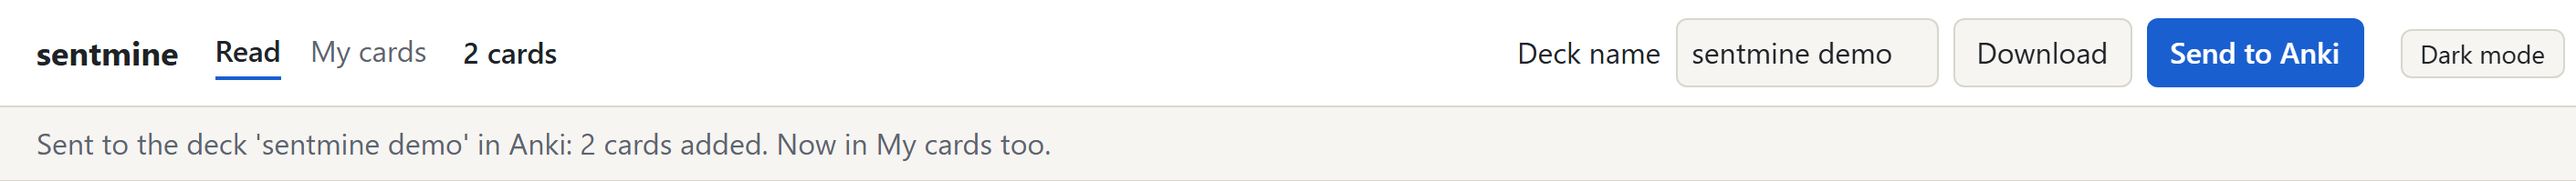
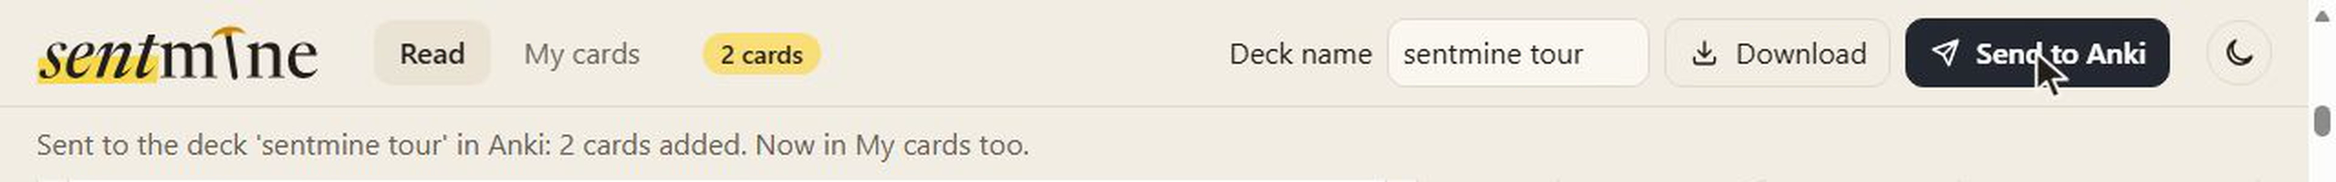
Promo layout: pictures and text side by side from the top; clean step 3 crop; step 4 in the new look

diff --git a/docs/index.html b/docs/index.html
@@ -143,7 +143,7 @@
   @keyframes settle { from { background: var(--picked-soft); } to { background: transparent; } }
   .back-again { margin-top: 12px; font-size: 0.9rem; }
 
-  .comes-back { display: grid; grid-template-columns: minmax(0, 1.25fr) minmax(0, 1fr); gap: 40px; align-items: center; }
+  .comes-back { display: grid; grid-template-columns: fit-content(62%) minmax(0, 1fr); gap: 48px; align-items: start; }   /* the picture as wide as it is; the text beside its top */
   .comes-back ul { padding-left: 1.2em; margin: 0; }
   .comes-back li { margin-bottom: 10px; }
 
@@ -280,12 +280,12 @@
         <article class="step" data-step="3">
           <h3>Drag over a term</h3>
           <p>Drag over <i>Simpson’s reversal</i>: the card comes at once, with the sentence that explains it; in <b>Edit</b>, a click on the next sentence puts it in too. The term is inside its own definition, so <b>Make it cloze</b> hides it.</p>
-          <div class="shot"><a href="img/3-cloze-card.png" title="Open the full screenshot"><img src="img/step-3-cloze.png" width="1217" height="443" loading="lazy" alt="The card for Simpson's reversal, tagged CLOZE, with its sentence below and the term marked in it."></a></div>
+          <div class="shot"><a href="img/3-cloze-card.png" title="Open the full screenshot"><img src="img/step-3-cloze.png" width="1215" height="300" loading="lazy" alt="The card for Simpson's reversal, tagged CLOZE, with its sentence below and the term marked in it."></a></div>
         </article>
         <article class="step" data-step="4">
           <h3>Send it to Anki</h3>
-          <p>With Anki open and the AnkiConnect add-on installed, one click puts the cards in your deck. Without Anki, Download gives you a deck file to import. (This screenshot is from the 14 November run, before the app’s new look.)</p>
-          <div class="shot"><a href="img/4-send-to-anki.png" title="Open the full screenshot"><img src="img/step-4-send.png" width="1411" height="99" loading="lazy" alt="The status line: Sent to the deck 'sentmine demo' in Anki: 2 cards added. Now in My cards too."></a></div>
+          <p>With Anki open and the AnkiConnect add-on installed, one click puts the cards in your deck. Without Anki, Download gives you a deck file to import.</p>
+          <div class="shot"><a href="img/4-send-to-anki.png" title="Open the full screenshot"><img src="img/step-4-send.png" width="1280" height="100" loading="lazy" alt="The top of sentmine after Send to Anki: Sent to the deck 'sentmine tour' in Anki: 2 cards added. Now in My cards too."></a></div>
         </article>
         <article class="step" data-step="5">
           <h3>Meet the word again</h3>

diff --git a/PROCESS.md b/PROCESS.md
@@ -106,3 +106,4 @@ e): the handle was taller than the letters, leaned too far and stood too far apa
 | 2026-11-18 | "AI wait shortened" moves from the videos to their captions | I asked why the label was in the video. Claude explained: Suggest meaning waits a few seconds for gpt-5-nano, the recording cuts that wait short, and the course asks to mark what is not real; it offered four ways (keep it, show the real wait, reword it, or note it only in the caption on the page) and recommended the last; I chose it. The label is gone from the tour and from "One word, one week"; both captions under the videos on the page say only the wait for the AI meaning is shortened. Checked: HyperFrames' check passes for both; frames at the meaning beat show no label. | Shortened wait noted on the page, not in the film. |
 | 2026-11-18 | README, the page's facts and DESIGN.md brought up to date | I asked whether the README and the rest were updated. Claude found three things behind: the README said 665 tests and did not mention the videos; the promo page's facts said 667 tests, linking an older commit; DESIGN.md described neither the videos and their posters nor Suggest meaning on the opening card, nor where the footage and the meanings came from. Now the README names the three videos and says 676 tests; the page says 676 tests on 18 November, linking the tests at the merge of #33; DESIGN.md has a Videos section (placement, posters, look, sources) and the provenance of each film and of the opening card's meanings. Checked: the page renders at 1440 and 390 px with no sideways scrolling or broken images. | Docs match what is shipped. |
 | 2026-11-18 | One video on the promo page | I asked whether Homework 10 means one video. Claude read the assignment again: every step speaks of one ("wait for my choice. Make the video I choose", "your page, with the video on it", "put it on my promo page without changing anything else there"), though nothing forbids more; it changed its earlier advice and suggested keeping only the tour. I agreed, as other projects have one too. "One word, one week" and "Your book and the web" are off the page; their films and projects stay in the repo (`docs/video/`, `video/story`, `video/web`). README and DESIGN.md say so. Checked: the page renders at 1440 and 390 px, one video, no sideways scrolling or broken images. | The tour is the HW10 video; the other two are kept for the presentation or the demo days. |
+| 2026-11-19 | Each section's layout checked | I asked to make sure every section's layout is logical. Claude looked at each section at desktop width: the order (promise, video, five steps, comes back, formulas, browser, why, facts, try it) reads well; three things did not. In "Formulas and graphs" and "Comes back" the picture was narrow and its text floated far right, centred; now the picture's column is as wide as the picture and the text starts beside its top. Step 3's crop began with a strip of the card above it; it is cut again from the same screenshot, the sentence beside its CLOZE card. Step 4 still showed the 14 November screen in the old look; it is now a frame of the tour's real run (Send to Anki, "2 cards added") in the new look, and the note about the old screenshot is gone. DESIGN.md says so. Checked: desktop and phone, no sideways scrolling, no broken images. | Sections read in order, pictures and text side by side from the top. |

diff --git a/DESIGN.md b/DESIGN.md
@@ -229,7 +229,7 @@ Full-bleed bands with a fluid side gutter (`gutter`, 16 to 48px); sections separ
 - **Section order as shipped:** opening; video (the tour); One card, five steps; Your cards come back while you read; Formulas and graphs on the card; Cards from web pages, too; Why I built it; Measured, with sources; Try it; footer.
 - **Opening:** headline and one line, then the book-sentence frame full width, then two equal columns (the card it made; the same word twelve pages later), then a caption.
 - **How it works:** steps `minmax(0, 1fr)` beside a sticky deck `minmax(0, 24rem)`. The deck is sticky at `top: var(--below-bar)`.
-- **Comes back / Formulas / Browser:** two columns, picture and text, vertically centred.
+- **Comes back / Formulas:** the picture's column as wide as the picture (`fit-content(62%)`), the text beside it from its top. **Browser:** the side panel picture beside its text.
 - **Anchors:** `scroll-padding-top: var(--below-bar)`; `--below-bar` is `--bar-height` (66px) plus 24px.
 
 **Breakpoints.** At 900px and below every two-column grid becomes one column, the deck stops being sticky and shows its final state. At 640px and below the header keeps only the wordmark and Install.
@@ -311,7 +311,7 @@ The falling cards (above); **settle** (`.5s cubic-bezier(.16, 1, .3, 1)`), a fad
 ### Raster provenance
 - `docs/img/1-click-a-word.png`, `2-suggest-meaning.png`, `3-cloze-card.png`, `5-already-has-a-card.png`, `6-cards-come-back.png`, `8-formula-in-edit.png`: full screenshots from one real run of sentmine on 2026-11-18 in its new look, with an empty card memory and a real `gpt-5-nano` key, on the solution manual to Pearl, Glymour and Jewell, *Causal Inference in Statistics: A Primer*; captured with headless Edge, untouched. The meaning on card 2 is the model's real answer.
 - `docs/img/step-1-click.png`, `step-2-meaning.png`, `step-3-cloze.png`, `step-5-again.png`, `step-8-formula.png`: crops of those, cut small because the book is copyrighted; each is captioned with the book's title and links to its full screenshot.
-- `docs/img/4-send-to-anki.png` and its crop `step-4-send.png`: from the run of 2026-11-14 with Anki open, before the new look (said so on the page).
+- `docs/img/4-send-to-anki.png` and its crop `step-4-send.png`: a frame of the tour's recording on 2026-11-18 (a real run with Anki open; the pointer in it is the recorder's drawn pointer), right after Send to Anki.
 - `docs/img/7-side-panel.png`: the extension's side panel at 400 px in a real run on 2026-11-18, with two cards made from Wikipedia's *Causal inference* article (CC BY-SA 4.0), credited on the page.
 - `docs/video/sentmine-tour.mp4`: one continuous take of a real run of sentmine on 2026-11-18, recorded at 3840×2160 in headless Edge with a drawn pointer, trimmed 0.9 s and played 1.12× faster; only the wait for the AI meaning is shortened (said in its caption). It opens on a title card with a real crop of page 13 (`video/promo/assets/tour/page13-sentence.png`), which is also its poster.
 - `docs/video/sentmine-story.mp4` (not on the page): real screens recorded on 2026-11-18: sentmine in headless Edge, and Anki's own window asking the card, recorded with Windows' PrintWindow; the days in it are the story's (said in the film and its caption).
